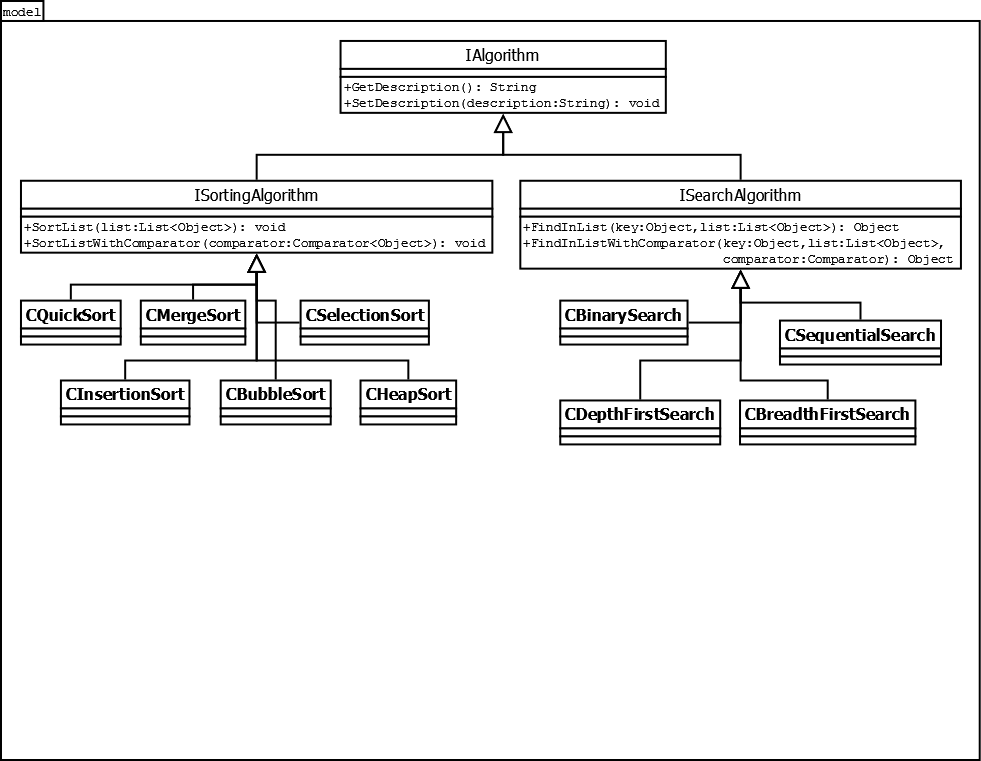
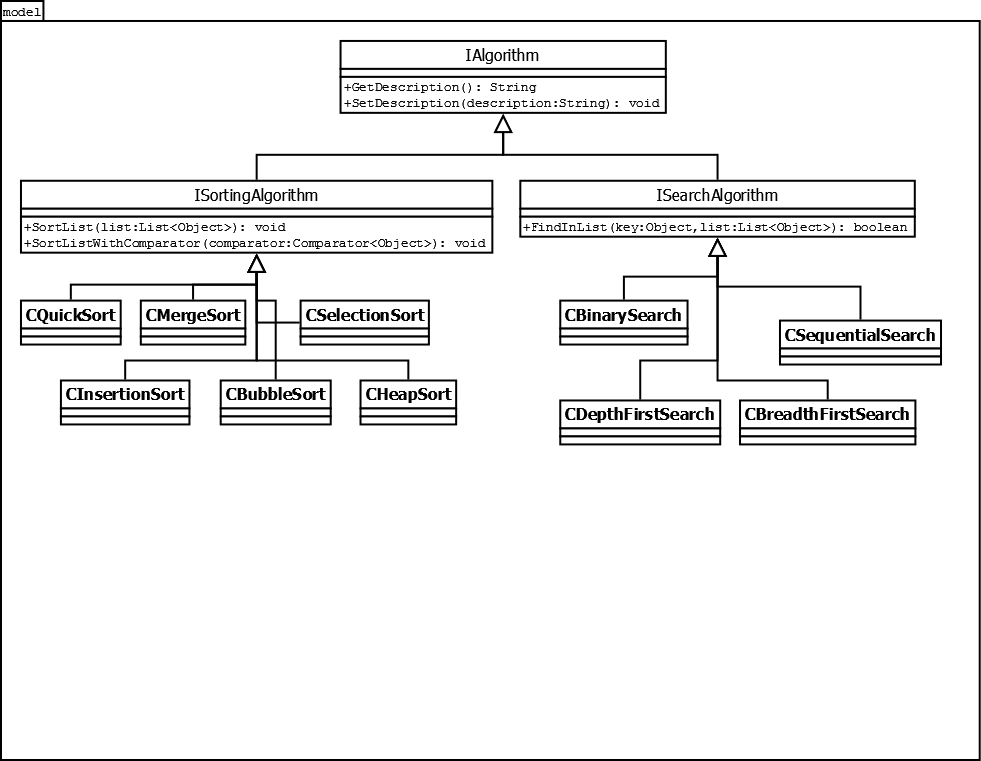
Added interface and 1 implementation for search

diff --git a/app/src/main/java/model/ISortingAlgorithm.java b/app/src/main/java/model/ISortingAlgorithm.java
@@ -1,0 +1,23 @@
+package model;
+
+import java.util.Comparator;
+import java.util.List;
+
+/**
+ * Created by Zach on 10/15/2014.
+ */
+public interface ISortingAlgorithm extends IAlgorithm {
+
+    /**
+     * Sorts a list with implementation's strategy.
+     * @param list - The list to sort.
+     */
+    public void SortList(List<Object> list);
+
+    /**
+     * Sorts a list by using the object's comparator interface.
+     * @param list - The list to sort.
+     * @param comparator - The comparator object to compare elements when sorting.
+     */
+    public void SortListWithComparator(List<Object> list, Comparator<Object> comparator);
+}

diff --git a/app/src/main/java/model/CSequentialSearch.java b/app/src/main/java/model/CSequentialSearch.java
@@ -1,0 +1,26 @@
+package model;
+
+import java.util.List;
+
+/**
+ * Created by Zach on 10/15/2014.
+ */
+public class CSequentialSearch implements ISearchingAlgorithm {
+
+    private static final String m_Description = "A sequential search using java List.contains";
+
+    @Override
+    public boolean FindInList(Object key, List<Object> list) {
+        return list.contains(key);
+    }
+
+    @Override
+    public String GetDescription() {
+        return m_Description;
+    }
+
+    @Override
+    public void SetDescription(String description) {
+        // No-op
+    }
+}

diff --git a/app/src/main/java/model/ISearchingAlgorithm.java b/app/src/main/java/model/ISearchingAlgorithm.java
@@ -1,0 +1,18 @@
+package model;
+
+import java.util.List;
+
+/**
+ * Created by Zach on 10/15/2014.
+ */
+public interface ISearchingAlgorithm extends IAlgorithm {
+
+    /**
+     * Searches for an object in the list. Returns false if not found.
+     * @param key - The object to look for.
+     * @param list - The list to search through.
+     * @return True if found, false otherwise.
+     */
+    public boolean FindInList(Object key, List<Object> list);
+
+}

diff --git a/app/src/main/java/model/IAlgorithm.java b/app/src/main/java/model/IAlgorithm.java
@@ -1,0 +1,20 @@
+package model;
+
+/**
+ * Created by Zach on 10/15/2014.
+ */
+public interface IAlgorithm {
+
+    /**
+     * Gets a description of the algorithm.
+     * @return String - the algorithm's description
+     */
+    public String GetDescription();
+
+    /**
+     * Sets the algorithm's description.
+     * @param description - The description of the algorithm.
+     */
+    public void SetDescription(String description);
+
+}
